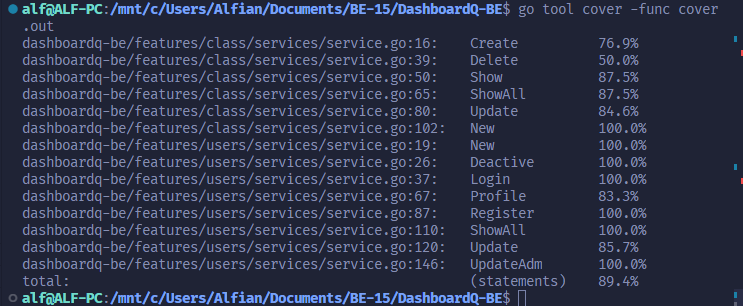
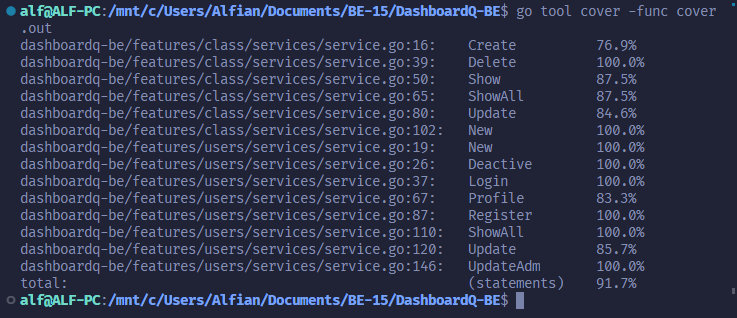
test: update all unit test coverage

diff --git a/features/class/services/service_test.go b/features/class/services/service_test.go
@@ -63,12 +63,12 @@ func TestCreate(t *testing.T) {
 		pToken.Valid = true
 		res, err := srv.Create(pToken, inputData)
 		assert.NotNil(t, err)
-		assert.ErrorContains(t, err, "access denied")
+		assert.ErrorContains(t, err, "server")
 		assert.Equal(t, uint(0), res.ID)
 		repo.AssertExpectations(t)
 	})
 
-	t.Run("internal server error", func(t *testing.T) {
+	t.Run("internal server problem", func(t *testing.T) {
 		repo.On("Create", uint(1), mock.Anything).Return(class.Core{}, errors.New("server error")).Once()
 		srv := New(repo)
 		_, token := helper.GenerateToken(1)
@@ -77,7 +77,7 @@ func TestCreate(t *testing.T) {
 		res, err := srv.Create(pToken, inputData)
 		assert.NotNil(t, err)
 		assert.Equal(t, uint(0), res.ID)
-		assert.ErrorContains(t, err, "server error")
+		assert.ErrorContains(t, err, "server problem")
 		repo.AssertExpectations(t)
 	})
 }
@@ -187,7 +187,7 @@ func TestUpdate(t *testing.T) {
 func TestDelete(t *testing.T) {
 	repo := mocks.NewClassData(t)
 	t.Run("delete class successful", func(t *testing.T) {
-		repo.On("Delete", uint(1)).Return(nil).Once()
+		repo.On("Delete", uint(1), uint(1)).Return(nil).Once()
 		srv := New(repo)
 		_, token := helper.GenerateToken(1)
 		pToken := token.(*jwt.Token)
@@ -199,7 +199,7 @@ func TestDelete(t *testing.T) {
 	})
 // 	// internal server error, class fail to delete
 	t.Run("internal server error, class fail to delete", func(t *testing.T) {
-		repo.On("Deactive", uint(1)).Return(errors.New("no class has delete")).Once()
+		repo.On("Delete", uint(1), uint(1)).Return(errors.New("no class has delete")).Once()
 		srv := New(repo)
 
 		_, token := helper.GenerateToken(1)

diff --git a/README.md b/README.md
@@ -108,35 +108,6 @@ $ git clone https://github.com/ALTA-PROJECT2-GROUP4/DashboardQ-BE.git
 $ cd DashboardQ-BE
 ```
 
-# UNIT TEST COVERAGE BY FEATURE
-
-<div>
-- USER
-</div>
-<div>
-<img src="image/UT_Users.png">
-</div>
-
-<div>
-- MENTEE
-</div>
-<div>
-
-</div>
-
-<div>
-- CLASS
-</div>
-<div>
-
-</div>
-
-<div>
-- FEEDBACK
-</div>
-<div>
-
-</div>
 
 # UNIT TEST COVERAGE ALL
 <img src="image/UT_ALL.png">
